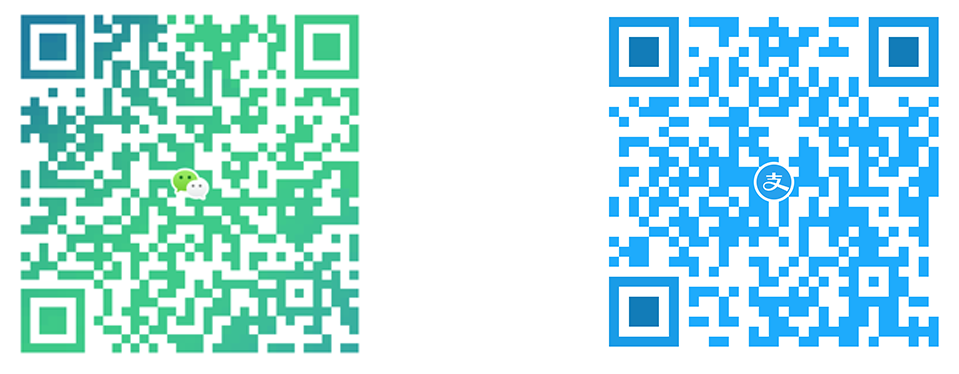
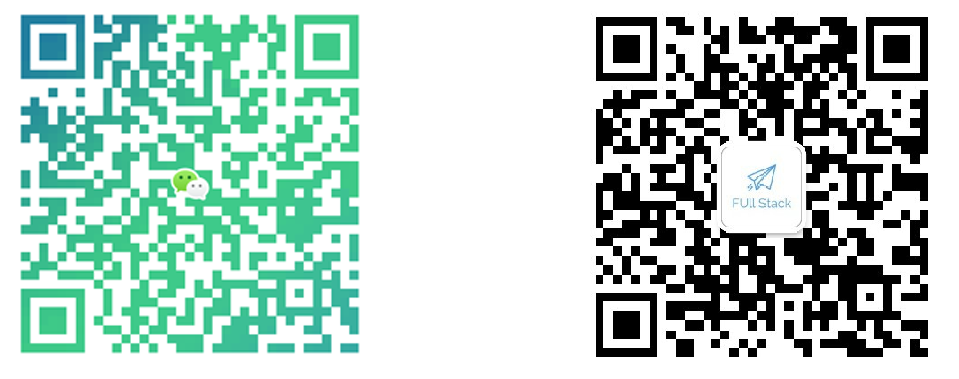
no message

diff --git a/README.md b/README.md
@@ -305,7 +305,8 @@
         from zero to hero.
     </p>
     <p>
-        💰💰💰 嗯，我的梦想是被读者的稿费包养，嘿嘿~ 打赏不准超过你的早饭钱
+        💰💰💰 【打赏：不准超过你的早饭钱】和【微信公众号：全栈开发社区】二选一，嘿嘿
     </p>
 </div>
 <div align="center"><img src="pics/tipping.png" width="620"/></div><br/>
+
